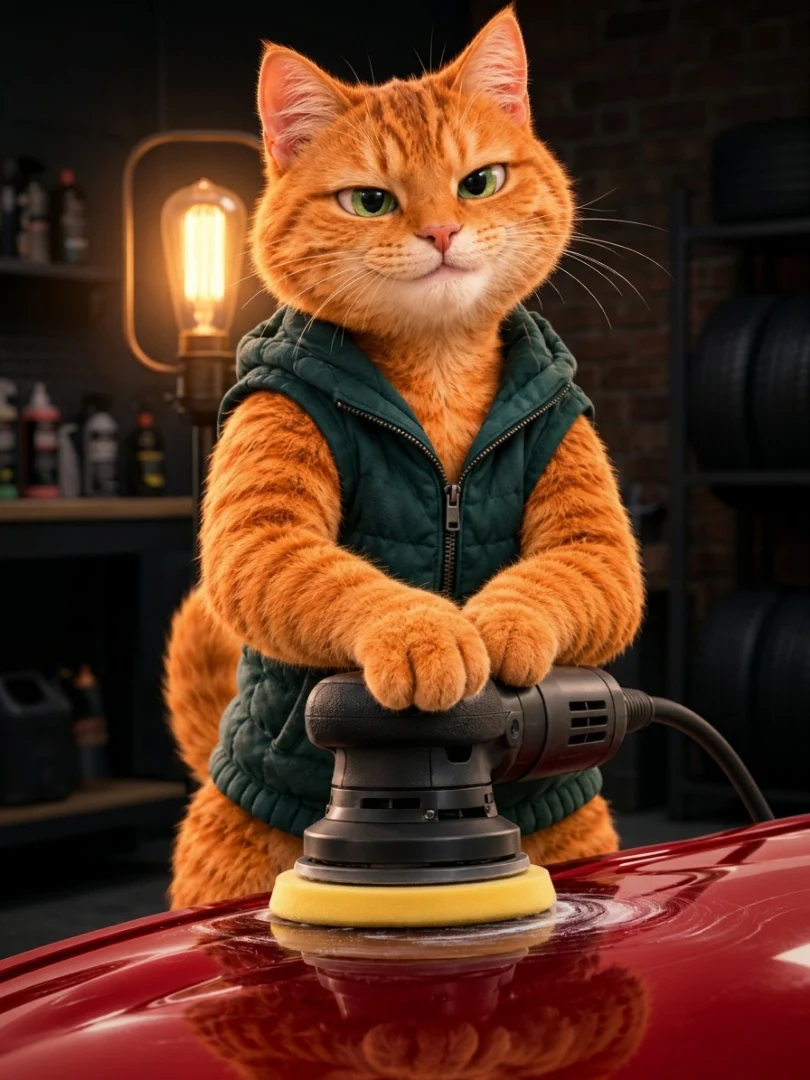
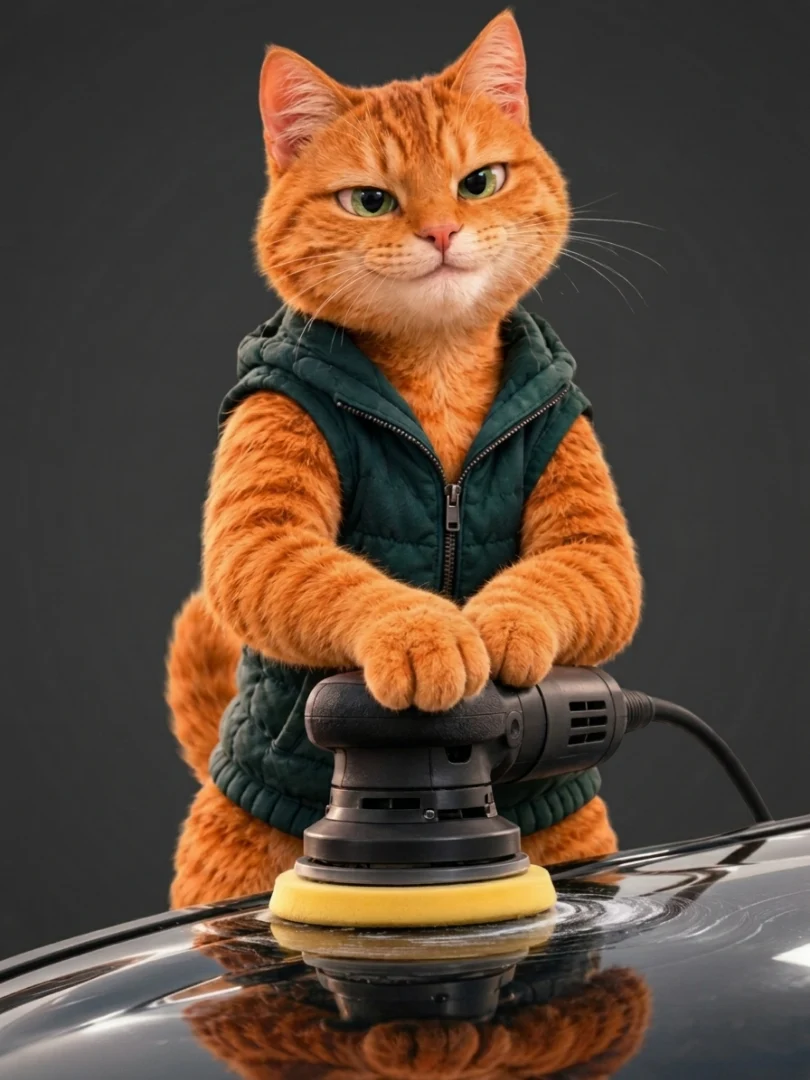
Update dark theme hero image

diff --git a/assets/css/style.css b/assets/css/style.css
@@ -48,7 +48,7 @@
   border-color: var(--line);
 }
 [data-theme="dark"] .pane__glint { opacity: .08; }
-[data-theme="dark"] .header .logo { background: #F3F5F6; border-radius: 8px; padding: 4px 8px; }
+[data-theme="dark"] .header .logo { background: #F3F5F6; border-radius: 8px; }
 
 *, *::before, *::after { box-sizing: border-box; }
 
@@ -141,7 +141,7 @@ p { margin: 0; text-wrap: pretty; }
 
 .logo { display: inline-flex; align-items: center; flex: none; }
 .logo img { width: clamp(140px, 15vw, 180px); }
-.header .logo { margin-right: auto; }
+.header .logo { margin-right: auto; padding: 4px 8px; }
 .footer .logo { background: #F3F5F6; border-radius: 8px; padding: 5px 10px; }
 
 .nav { display: flex; gap: 26px; }
